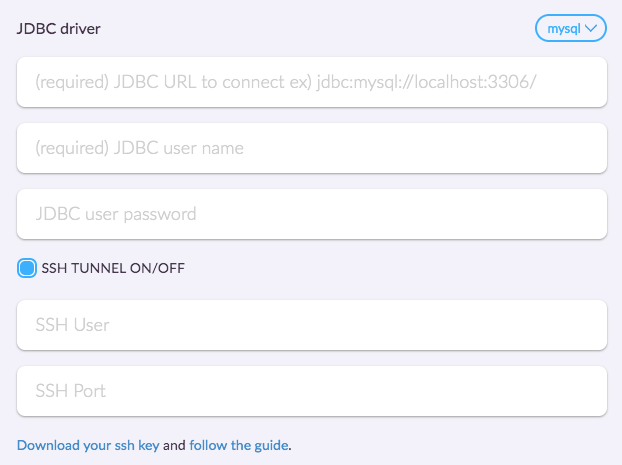
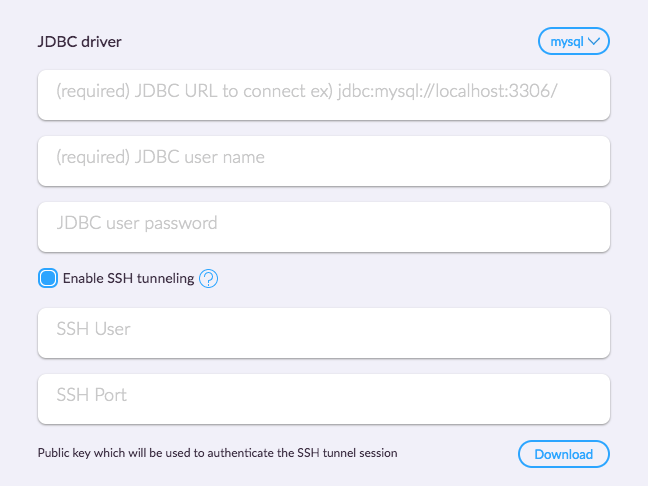
Update download file name for public key Update screenshot of jdbc ssh tunneling popup Change some wording

diff --git a/docs/guide/interpreter/jdbc.md b/docs/guide/interpreter/jdbc.md
@@ -32,31 +32,33 @@ SELECT * from my_table
 ### Whitelist IP addresses
 ZEPL connects your database using two IP addresses **52.38.31.66** and **52.32.218.160**. It's recommended to setup firewall and whitelist the IP.
 
-## Connecting to a database in private network with an SSH tunnel
+### Connecting to a database in private network with SSH tunnel
 
-To connect to a database in a private network, create an SSH tunnel using the following steps:
+To connect to a database in a private network, create SSH tunnel using the following steps:
 
-### Create a new JDBC interpreter
+#### Create a new JDBC interpreter
 * Go to ZEPL Interpreters page and click **Create interpreter**.
 * Select **JDBC** from the **Interpreter group**.
-* Check **SSH tunnel ON/OFF**.
+* Enable SSH tunneling.
 
 <img src="../../../img/jdbc_tunnel.png" class="image-box big-img" />
 
-### Setup the public key
+
+#### Setup the public key
 * Download our public key from the popup and whitelist **52.38.31.66**
 and **52.32.218.160** through your firewall.
 
 * Create a user account for ZEPL:
-
 ```
 ubuntu@user:~$ sudo useradd zepl
 ```
-* Since ZEPL authenticates via public key, there's no need to set a password.
-Authorize the key by opening up `zepl.rsa.pub`(the downloaded file)
-and pasting its contents into a new line in `/home/user/.ssh/authorized_keys`.
 
-* In most cases the SSH Port will be default 22. Check the Port variable in
+* Since ZEPL authenticates via public key, there's no need to set a password.
+Authorize the key by opening up `default.ssh.public_key` (the downloaded file)
+and pasting its contents into a new line in `/home/zepl/.ssh/authorized_keys`.
+Make sure `authorized_keys` file has **600** permission.
+
+* In most cases the SSH Port will be 22 by default. Check the Port variable in
 `/etc/ssh/sshd_config` to see which port is used for SSH.
 
 ```
